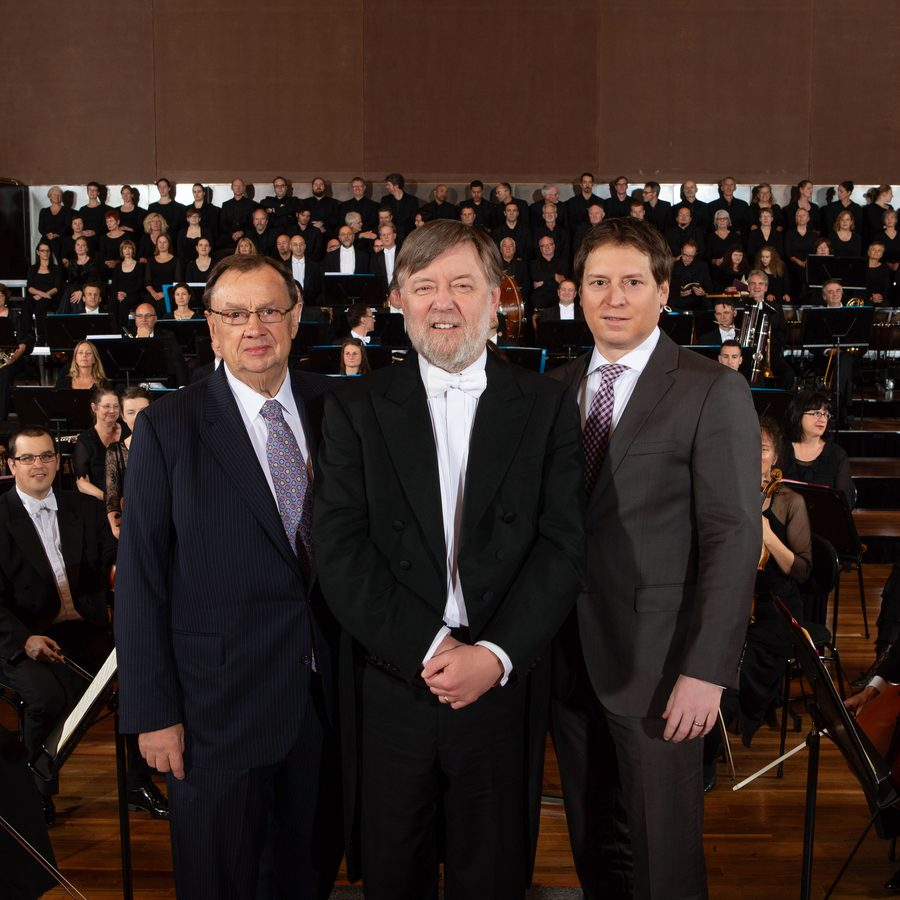
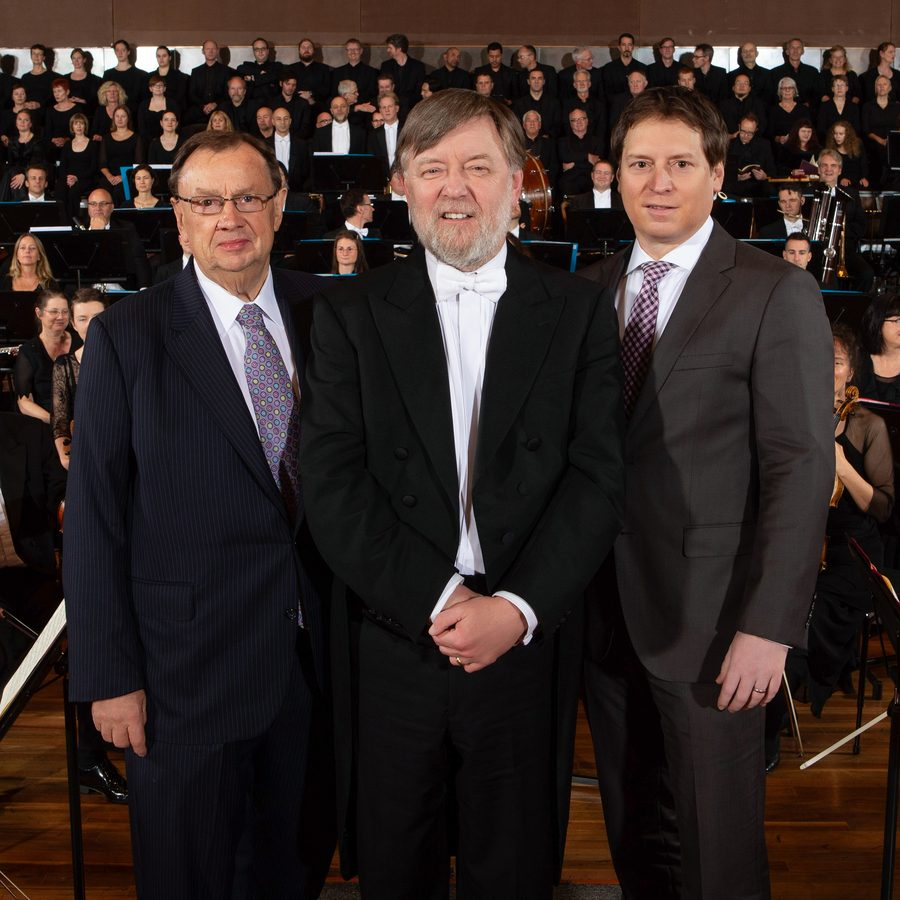
Portfolio: reframe MSO tile, swap row 4 for Ministry of Crab / Matrix / Myer Elyse
b-mso re-cropped lower (less ceiling, conductors larger), ?v=4.
Row 4 (Kay & Burton / Australia Post / Bondi Sands team) replaced with
new tiles b-crab-2, b-matrix-6, b-myer-2 from 'Profile pics edited'.

diff --git a/portfolio.html b/portfolio.html
@@ -124,26 +124,26 @@
         </article>
         <article class="lx-plate">
           <div class="lx-plate-img lx-plate-img-small">
-            <img src="assets/img/b-kayburton.jpg?v=3" srcset="assets/img/b-kayburton.webp?v=3" alt="Two directors photographed beside a staircase in a luxury home" loading="lazy">
+            <img src="assets/img/b-crab-2.jpg" srcset="assets/img/b-crab-2.webp" alt="Chef holding two mud crabs against a gold backdrop" loading="lazy">
           </div>
           <div class="lx-plate-meta">
-            <h3 class="lx-plate-name">Kay &amp; Burton</h3>
+            <h3 class="lx-plate-name">Ministry of Crab</h3>
           </div>
         </article>
         <article class="lx-plate">
           <div class="lx-plate-img lx-plate-img-small">
-            <img src="assets/img/b-auspost.jpg?v=3" srcset="assets/img/b-auspost.webp?v=3" alt="Team photographed together on the floor of a delivery facility" loading="lazy">
+            <img src="assets/img/b-matrix-6.jpg" srcset="assets/img/b-matrix-6.webp" alt="Editorial portrait in a yellow floral jacket on a yellow background" loading="lazy">
           </div>
           <div class="lx-plate-meta">
-            <h3 class="lx-plate-name">Australia Post</h3>
+            <h3 class="lx-plate-name">Matrix</h3>
           </div>
         </article>
         <article class="lx-plate">
           <div class="lx-plate-img lx-plate-img-small">
-            <img src="assets/img/b-bondi-3.jpg?v=3" srcset="assets/img/b-bondi-3.webp?v=3" alt="Team in black photographed against a white studio wall" loading="lazy">
+            <img src="assets/img/b-myer-2.jpg" srcset="assets/img/b-myer-2.webp" alt="Model in a fur coat seated in a heritage lounge" loading="lazy">
           </div>
           <div class="lx-plate-meta">
-            <h3 class="lx-plate-name">Bondi Sands</h3>
+            <h3 class="lx-plate-name">Myer</h3>
           </div>
         </article>
         <article class="lx-plate">
@@ -252,7 +252,7 @@
         </article>
         <article class="lx-plate">
           <div class="lx-plate-img lx-plate-img-small">
-            <img src="assets/img/b-mso.jpg?v=3" srcset="assets/img/b-mso.webp?v=3" alt="Conductors photographed on stage with the orchestra" loading="lazy">
+            <img src="assets/img/b-mso.jpg?v=4" srcset="assets/img/b-mso.webp?v=4" alt="Conductors photographed on stage with the orchestra" loading="lazy">
           </div>
           <div class="lx-plate-meta">
             <h3 class="lx-plate-name">MSO</h3>
